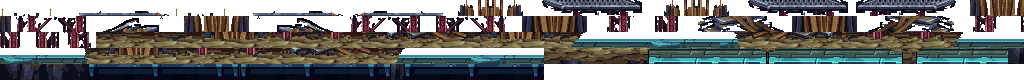
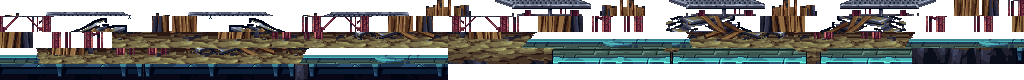
Stage 5: art fixes (windows, cliffs, spires, planks, scaffold) and victory art
From ../lab (compose.py, new scaffold.py): the big window's top frame is rebuilt from
the other window's, lab1's window is completed instead of ending in half a window at the
pillar, the cliffs reach the top of the screen and lose the ledge tip hanging off their
right side, the spires are whole, the stakes are flat-topped planks instead of a mirrored
copy, and the scaffold is cut by its construction so its red legs and beams have no
holes. MISSION ACCOMPLISHED art for stage 5 from original/victory_level5.

diff --git a/src/menu.c b/src/menu.c
@@ -429,7 +429,7 @@ static Sprite *victory_art(int stage, int character)
 {
     static const char *const HERO[4] = { "saber", "fireball", "april", "colt" };
     static Sprite *cache[8][4]; static bool tried[8][4];
-    if (stage < 1 || stage > 7) return NULL;   /* stage 5 has none yet: victory/stage5_<hero>.png is picked up when there */
+    if (stage < 1 || stage > 7) return NULL;
     int h = stage == 2 || stage >= 6 ? 0 : character & 3;   /* the Grand Prix and Ramrod are the whole crew's */
     if (!tried[stage][h]) {
         tried[stage][h] = true;
